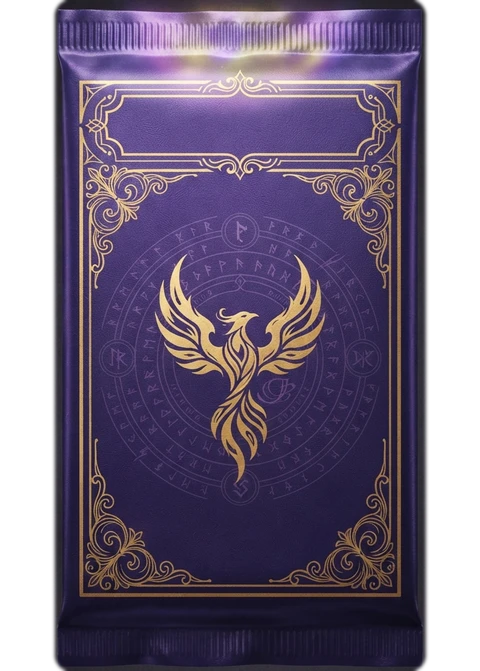
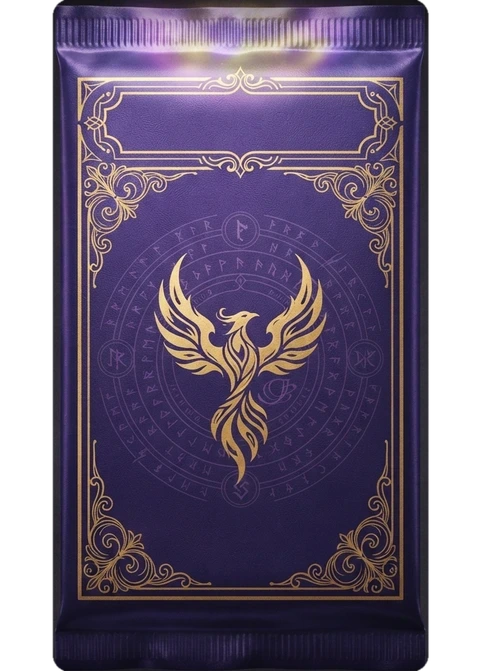
Attenuato il bagliore residuo sul pacchetto; tolta una riga dal tutorial
Segnalato ancora un pochino di alone sopra e sotto il pacchetto: non
era piu' la trasparenza (gia' verificata pulita, zero pixel fucsia
nel file vero — il fucsia visto era il visualizzatore locale usato per
aprire il file, non tutti reggono la trasparenza dei webp), ma il
bagliore che avevo chiesto apposta nel prompt originale ("faint
mystical glow escaping from the sealed top seam"): faceva parte della
foto, non un problema di ritaglio. Attenuato con una banda morbida che
scurisce leggermente le prime/ultime righe, senza toccare l'alpha.

Nel tutorial del tavolo, passo 22 ("Le Carte Magiche"): tolta la riga
di aiuto che si accendeva dopo 8 secondi di inattivita' — allungava il
pannello proprio mentre bisognava leggere il bottone USA sotto,
richiesto esplicitamente di toglierla per ridurre ulteriormente il
pannello. La carta e' comunque gia' segnalata dal bagliore dorato,
l'aiuto era un doppione.

Changed region(s): [[0.0938, 0.0, 0.9062, 1.0], [0.4375, 0.2981, 0.75, 0.7452], [0.2812, 0.6259, 0.3125, 0.6557]]

diff --git a/client/tavolo.html b/client/tavolo.html
@@ -10072,7 +10072,11 @@ const TUTORIAL_PASSI = [
            'ogni copia si usa <b>una sola volta</b>. Tocca la tua carta <b>Sorpresa</b>, poi <b>USA</b>.',
     illumina: '#battleGiocatore .bcard.magica[data-tipo="sorpresa"]',
     azione: () => magie && magie[0] && (magie[0].consumate || []).length > 0,
-    aiuto: 'La carta col sigillo ✦ e la scritta SORPRESA, nella tua fila.',
+    // Niente `aiuto` qui apposta: la carta e' gia' illuminata (il
+    // bagliore dorato la indica), un'altra riga di testo che si accende
+    // dopo 8 secondi allungava il pannello proprio mentre bisognava
+    // leggere il bottone USA sotto di lui — richiesto esplicitamente:
+    // "puoi eliminare l'ultima riga... così puoi ridurre la finestra".
     // Il tocco apre #veloCarta, la scheda a tutto schermo con la carta
     // grande e il bottone USA di fianco: quel bottone sta verticalmente
     // in mezzo allo schermo, proprio dove il pannello (fisso in alto a

diff --git a/strumenti/genera-tavolo.py b/strumenti/genera-tavolo.py
@@ -4845,7 +4845,11 @@ const TUTORIAL_PASSI = [
            'ogni copia si usa <b>una sola volta</b>. Tocca la tua carta <b>Sorpresa</b>, poi <b>USA</b>.',
     illumina: '#battleGiocatore .bcard.magica[data-tipo="sorpresa"]',
     azione: () => magie && magie[0] && (magie[0].consumate || []).length > 0,
-    aiuto: 'La carta col sigillo ✦ e la scritta SORPRESA, nella tua fila.',
+    // Niente `aiuto` qui apposta: la carta e' gia' illuminata (il
+    // bagliore dorato la indica), un'altra riga di testo che si accende
+    // dopo 8 secondi allungava il pannello proprio mentre bisognava
+    // leggere il bottone USA sotto di lui — richiesto esplicitamente:
+    // "puoi eliminare l'ultima riga... così puoi ridurre la finestra".
     // Il tocco apre #veloCarta, la scheda a tutto schermo con la carta
     // grande e il bottone USA di fianco: quel bottone sta verticalmente
     // in mezzo allo schermo, proprio dove il pannello (fisso in alto a
